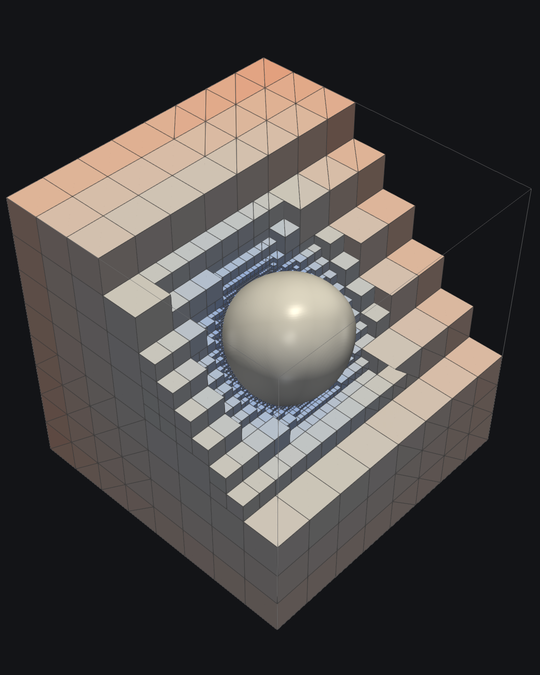
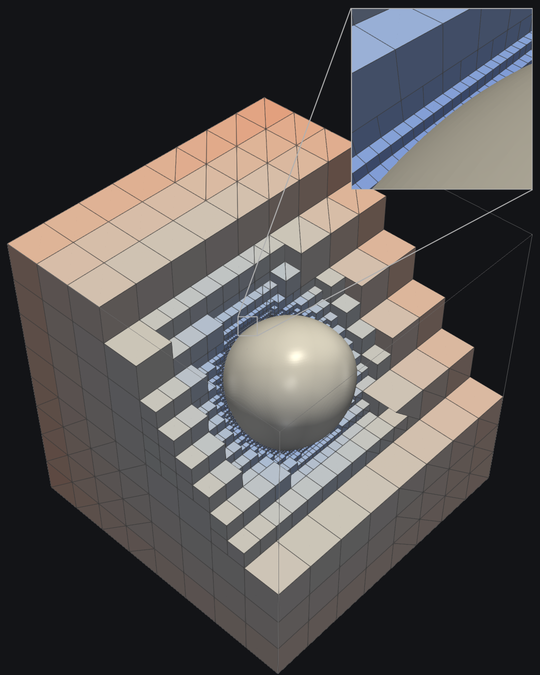
gpu_advection_visualization: zoom into the refinement band as inset [with assistance from claude] [created with claude]
advect_scene.py gets the option --inset: a 10x zoom into the refinement band next to the sphere, in the top right corner of each frame, with a frame and connecting lines in the main image. The zoom target follows the interface on the cutting plane. The main camera moved down a bit to make room. make_video.sh passes render options on. run.sh uses --inset, README and images are updated (images rendered from the v50 data with the new scripts).

diff --git a/cases/gpu_advection_visualization/postprocessing/advect_scene.py b/cases/gpu_advection_visualization/postprocessing/advect_scene.py
@@ -4,13 +4,16 @@ Tested with ParaView 5.11.2 (Ubuntu package, /usr/bin/pvpython). Run it with a c
 library path, otherwise pvpython picks up libraries from the module system:
 
   env -u LD_LIBRARY_PATH -u PYTHONPATH pvpython advect_scene.py state  <data_dir> <out.pvsm>
-  env -u LD_LIBRARY_PATH -u PYTHONPATH pvpython advect_scene.py render <data_dir> <out_dir> <first> <last> [stride] [--raytrace]
+  env -u LD_LIBRARY_PATH -u PYTHONPATH pvpython advect_scene.py render <data_dir> <out_dir> <first> <last> [stride] [--raytrace] [--inset] [--inset-zoom=Z]
 
 'state' writes a ParaView state file for the GUI. 'render' writes one PNG per time step
-(frame_NNN.png) for the steps first, first+stride, ... up to last (inclusive). Several render processes with disjoint
-step ranges can run at the same time, see make_video.sh.
+(frame_NNN.png) for the steps first, first+stride, ... up to last (inclusive). With --inset each frame also
+gets a zoom into the refinement band in the top right corner. Several render processes with disjoint
+step ranges can run at the same time, see make_video.sh. The inset needs PIL (Pillow) in pvpython.
 """
+import builtins
 import glob
+import math
 import os
 import re
 import sys
@@ -19,11 +22,12 @@ from paraview.simple import *
 
 # Scene parameters
 RESOLUTION = [1080, 1350]
-# Cutting plane, normal (0,1,1). In this case (run e8u3l2r5c01t1a10v50) the sphere center stays at
+# Cutting plane, normal (0,1,1). In run e8u3l2r5c01t1a10v50 the sphere center stays at
 # y+z = 1.18..1.24, so the half sphere sits on the cut face for the whole run.
+# (Test run e8u3l2r5c01t01: origin (0.6,0.6,0.6), normal (1,1,0).)
 PLANE_ORIGIN = [0.5, 0.605, 0.605]
 PLANE_NORMAL = [0.0, 1.0, 1.0]
-# Uniform grid for the interface contour, covers the sphere path.
+# Uniform grid for the interface contour, covers the sphere path of both runs.
 ISO_BOUNDS = [0.12, 0.95, 0.12, 0.95, 0.12, 0.95]
 ISO_DIMENSIONS = [256, 256, 256]
 # Gaussian smoothing of the resampled phi (standard deviation in voxels), removes the ripples
@@ -35,10 +39,23 @@ BACKGROUND = [0.075, 0.08, 0.09]
 EDGE_COLOR = [0.22, 0.22, 0.22]
 ISO_COLOR = [0.93, 0.92, 0.88]
 OUTLINE_COLOR = [0.42, 0.42, 0.42]
-CAMERA_POSITION = [2.50, 2.39, 3.02]
-CAMERA_FOCAL_POINT = [0.50, 0.50, 0.47]
+CAMERA_POSITION = [2.44, 2.33, 3.11]
+CAMERA_FOCAL_POINT = [0.44, 0.44, 0.56]
 CAMERA_VIEW_UP = [0.0, 0.0, 1.0]
 CAMERA_VIEW_ANGLE = 30.0
+# Zoom into the refinement band (inset in the top right corner of the frame, option --inset).
+# The inset camera looks in the same direction as the main camera at a point on the cut face:
+# the point of the interface on the cutting plane that lies farthest in the in-plane direction
+# INSET_DIRECTION, moved by INSET_GAP further out. So it follows the sphere and its deformation.
+# The zoomed region is marked by a frame in the main image, connected to the inset by two lines.
+INSET_RESOLUTION = [360, 360]
+INSET_MARGIN = 16
+INSET_DIRECTION = [0.0, -0.7071, 0.7071]
+INSET_GAP = 0.005
+# Magnification of the inset relative to the main image (pixel size of a feature in the inset / in the main image).
+INSET_ZOOM = 10.0
+INSET_LINE_COLOR = (176, 176, 176)
+INSET_LINE_WIDTH = 2
 
 
 def data_files(data_dir):
@@ -186,10 +203,116 @@ self.GetOutputDataObject(0).ShallowCopy(smooth.GetOutput())
   return reader, view
 
 
+def vec_dot(a, c):
+  """Dot product of two 3D vectors (paraview.simple shadows the builtin sum)."""
+  return a[0] * c[0] + a[1] * c[1] + a[2] * c[2]
+
+
+def vec_normalized(a):
+  length = vec_dot(a, a) ** 0.5
+  return [x / length for x in a]
+
+
+def convex_hull(points):
+  """Indices of the convex hull of 2D points (monotone chain)."""
+  order = sorted(range(len(points)), key=lambda i: points[i])
+  def cross(o, a, b):
+    return (points[a][0] - points[o][0]) * (points[b][1] - points[o][1]) \
+        - (points[a][1] - points[o][1]) * (points[b][0] - points[o][0])
+  hull = []
+  for sweep in (order, order[::-1]):
+    part = []
+    for i in sweep:
+      while len(part) >= 2 and cross(part[-2], part[-1], i) <= 0:
+        part.pop()
+      part.append(i)
+    hull += part[:-1]
+  return set(hull)
+
+
+def save_inset(view, time, frame_file, zoom=INSET_ZOOM):
+  """Render the zoom into the refinement band at the given time and add it to the frame image."""
+  from PIL import Image, ImageDraw
+  from paraview import servermanager
+  # Intersection curve of the interface with the cutting plane (not part of the state file).
+  section = FindSource("interface_on_plane")
+  if section is None:
+    section = Slice(registrationName="interface_on_plane", Input=FindSource("interface_phi0"))
+    section.SliceType = "Plane"
+    section.SliceType.Origin = PLANE_ORIGIN
+    section.SliceType.Normal = PLANE_NORMAL
+  section.UpdatePipeline(time)
+  points = servermanager.Fetch(section).GetPoints()
+  outermost = builtins.max((points.GetPoint(i) for i in range(points.GetNumberOfPoints())),
+                  key=lambda p: vec_dot(p, INSET_DIRECTION))
+  focal = [outermost[i] + INSET_GAP * INSET_DIRECTION[i] for i in range(3)]
+  # Camera basis: back (towards the camera), up and right.
+  back = vec_normalized([CAMERA_POSITION[i] - CAMERA_FOCAL_POINT[i] for i in range(3)])
+  up = vec_normalized([CAMERA_VIEW_UP[i] - vec_dot(CAMERA_VIEW_UP, back) * back[i] for i in range(3)])
+  right = [up[1] * back[2] - up[2] * back[1], up[2] * back[0] - up[0] * back[2], up[0] * back[1] - up[1] * back[0]]
+
+  # Same view angle as the main camera, so the camera distance gives the magnification.
+  main_distance = vec_dot([CAMERA_POSITION[i] - CAMERA_FOCAL_POINT[i] for i in range(3)], back)
+  distance = main_distance * INSET_RESOLUTION[1] / (RESOLUTION[1] * zoom)
+
+  inset_file = frame_file.replace("frame_", "inset_")
+  view.CameraFocalPoint = focal
+  view.CameraPosition = [focal[i] + distance * back[i] for i in range(3)]
+  SaveScreenshot(inset_file, view, ImageResolution=INSET_RESOLUTION, CompressionLevel="3")
+  view.CameraPosition = CAMERA_POSITION
+  view.CameraFocalPoint = CAMERA_FOCAL_POINT
+
+  # Corners of the zoomed region (top left, top right, bottom right, bottom left) in the main image.
+  half = distance * math.tan(math.radians(CAMERA_VIEW_ANGLE / 2))
+  camera = view.GetActiveCamera()
+  matrix = camera.GetCompositeProjectionTransformMatrix(RESOLUTION[0] / RESOLUTION[1], -1, 1)
+  region = []
+  for sx, sy in ((-1, 1), (1, 1), (1, -1), (-1, -1)):
+    p = [focal[i] + half * (sx * right[i] + sy * up[i]) for i in range(3)] + [1.0]
+    q = [sum_row(matrix, row, p) for row in range(4)]
+    region.append(((q[0] / q[3] + 1) / 2 * RESOLUTION[0], (1 - q[1] / q[3]) / 2 * RESOLUTION[1]))
+  # Corners of the inset, with a border of INSET_LINE_WIDTH around the image.
+  x0 = RESOLUTION[0] - INSET_MARGIN - INSET_RESOLUTION[0] - INSET_LINE_WIDTH
+  y0 = INSET_MARGIN
+  x1 = x0 + INSET_RESOLUTION[0] + 2 * INSET_LINE_WIDTH - 1
+  y1 = y0 + INSET_RESOLUTION[1] + 2 * INSET_LINE_WIDTH - 1
+  box = [(x0, y0), (x1, y0), (x1, y1), (x0, y1)]
+
+  # Draw the lines supersampled, so that they are antialiased after downsampling.
+  scale = 4
+  frame = Image.open(frame_file).convert("RGB")
+  overlay = Image.new("L", (RESOLUTION[0] * scale, RESOLUTION[1] * scale), 0)
+  draw = ImageDraw.Draw(overlay)
+  def scaled(points):
+    return [(x * scale, y * scale) for x, y in points]
+  draw.line(scaled(region + region[:1]), fill=255, width=INSET_LINE_WIDTH * scale, joint="curve")
+  # Connect the corresponding corners that lie on the outside of both rectangles.
+  hull = convex_hull(region + box)
+  for i in range(4):
+    if i in hull and i + 4 in hull:
+      draw.line(scaled([region[i], box[i]]), fill=255, width=INSET_LINE_WIDTH * scale)
+  draw.rectangle(scaled([box[0], box[2]]), fill=255)
+  overlay = overlay.resize(RESOLUTION, Image.LANCZOS)
+  frame.paste(Image.new("RGB", RESOLUTION, INSET_LINE_COLOR), (0, 0), overlay)
+  frame.paste(Image.open(inset_file).convert("RGB"), (x0 + INSET_LINE_WIDTH, y0 + INSET_LINE_WIDTH))
+  frame.save(frame_file, compress_level=3)
+  os.remove(inset_file)
+
+
+def sum_row(matrix, row, p):
+  return (matrix.GetElement(row, 0) * p[0] + matrix.GetElement(row, 1) * p[1]
+          + matrix.GetElement(row, 2) * p[2] + matrix.GetElement(row, 3) * p[3])
+
+
 def main():
   mode, data_dir = sys.argv[1], sys.argv[2]
   files = data_files(data_dir)
   raytrace = "--raytrace" in sys.argv
+  inset = "--inset" in sys.argv
+  zoom = INSET_ZOOM
+  for arg in sys.argv:
+    if arg.startswith("--inset-zoom="):
+      zoom = float(arg.split("=")[1])
   reader, view = build_scene(files, raytrace)
   if mode == "state":
     SaveState(sys.argv[3])
@@ -201,8 +324,10 @@ def main():
   times = reader.TimestepValues
   for step in range(first, last + 1, stride):
     scene.AnimationTime = times[step]
-    SaveScreenshot(os.path.join(out_dir, "frame_%03d.png" % step), view,
-                   ImageResolution=RESOLUTION, CompressionLevel="3")
+    frame_file = os.path.join(out_dir, "frame_%03d.png" % step)
+    SaveScreenshot(frame_file, view, ImageResolution=RESOLUTION, CompressionLevel="3")
+    if inset:
+      save_inset(view, times[step], frame_file, zoom)
     print("frame %d done" % step, flush=True)
 
 

diff --git a/cases/gpu_advection_visualization/README.md b/cases/gpu_advection_visualization/README.md
@@ -42,6 +42,8 @@ is offloaded to the GPU with OpenMP `target`.
   color range of ±0.25 for all time steps.
 * The light surface is the interface $\varphi = 0$ on the removed side of the plane. Therefore the half sphere sits on
   the cut face. Around it you see the band of fine elements (refinement level up to 7) as a ring on the cut face.
+* The window in the top right corner zooms (10 times) into the refinement band on the cut face just above the sphere,
+  where the elements become finer towards the interface. The small frame in the main image marks the zoomed region.
 * During the run, the sphere moves along a loop and is deformed by the flow (middle image). At the end it is almost
   back at its start. You can watch the refinement band move with the interface and the mesh coarsen behind it.
 
@@ -127,7 +129,7 @@ To make the video from the GPU run, copy the `advection_*.pvtu`/`.vtu` files to 
 the scripts in `postprocessing/` with 11.8 steps per second (118 steps → 10 s video, 59 render processes):
 
 ```bash
-bash postprocessing/make_video.sh <data_dir> <out_dir> 59 11.8
+bash postprocessing/make_video.sh <data_dir> <out_dir> 59 11.8 1 --inset
 env -u LD_LIBRARY_PATH -u PYTHONPATH /usr/bin/pvpython --force-offscreen-rendering \
     postprocessing/advect_scene.py state <data_dir> <out_dir>/advect_hybrid_cube.pvsm
 ```
@@ -142,8 +144,8 @@ The `run.sh` script executes the following main steps:
 * Configure and build `t8code_GPU_experiments_advect` from `libs/t8code_gpu_experiments-src` without offloading.
   The project fetches its own t8code version (see `cmake/thirdparty.json` in that repository).
 * Run the simulation with 20 MPI ranks in `output/simulation/` (60 output steps `advection_000.pvtu` … `advection_059.pvtu`, log in `advect.log`).
-* Render one image per output step with ParaView (30 processes in parallel) and encode the video with ffmpeg.
-  Each step is shown for 4 video frames (6 steps per second), so the video is 10 s long.
+* Render one image per output step with ParaView (30 processes in parallel), with a zoom into the refinement band,
+  and encode the video with ffmpeg. Each step is shown for 4 video frames (6 steps per second), so the video is 10 s long.
 * Write the ParaView state file.
 
 Results in `output/visualization/`:
@@ -165,7 +167,11 @@ at the top of the file.
   per-element copies of the points. Instead, the pipeline merges the points (Clean to Grid), averages the cell values to
   the points, resamples them to a uniform 256³ grid, smooths them with a Gaussian filter
   (σ ≈ 0.013, removes ripples from the jumps at hanging faces) and then extracts $\varphi = 0$.
-
+* The zoom (option `--inset` of `advect_scene.py` and `make_video.sh`): a second camera looks from the same direction,
+  10 times magnified, at the interface on the cut face just above the sphere. Its target is the outermost point of
+  the intersection of the interface with the cutting plane, so it follows the sphere and its deformation.
+  The zoom is placed in the top right corner of each frame, and a frame with two connecting lines marks the zoomed region
+  in the main image (drawn with Pillow). The state file contains only the main view.
 ## Dependencies
 
 ### Fetched repositories
